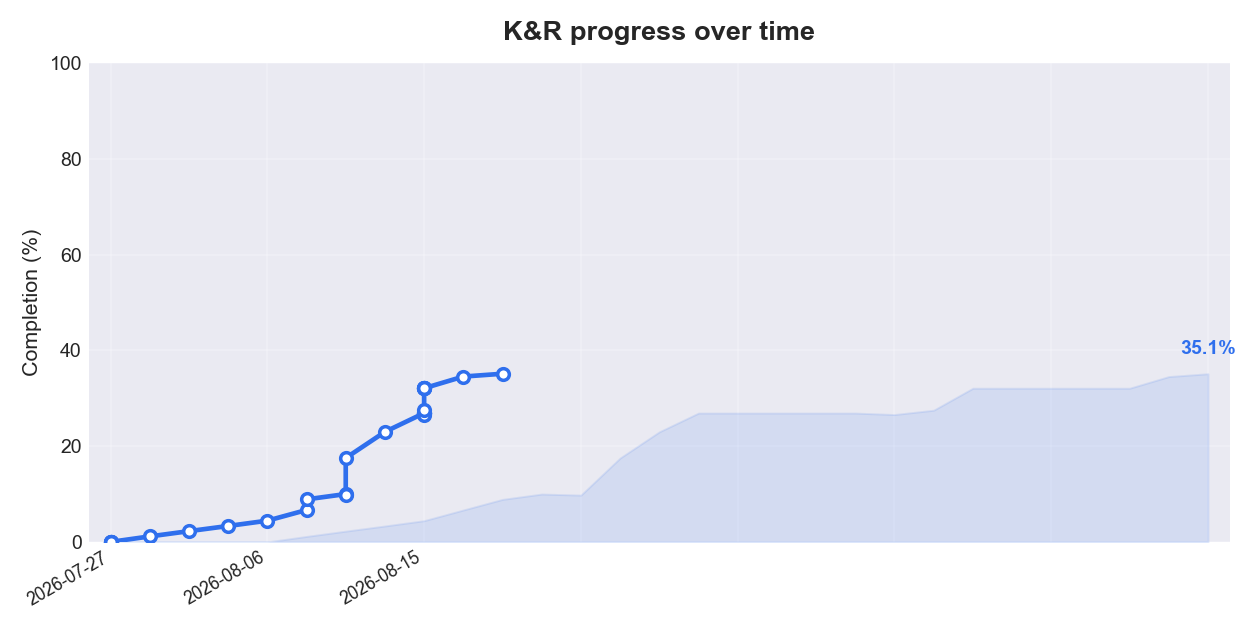
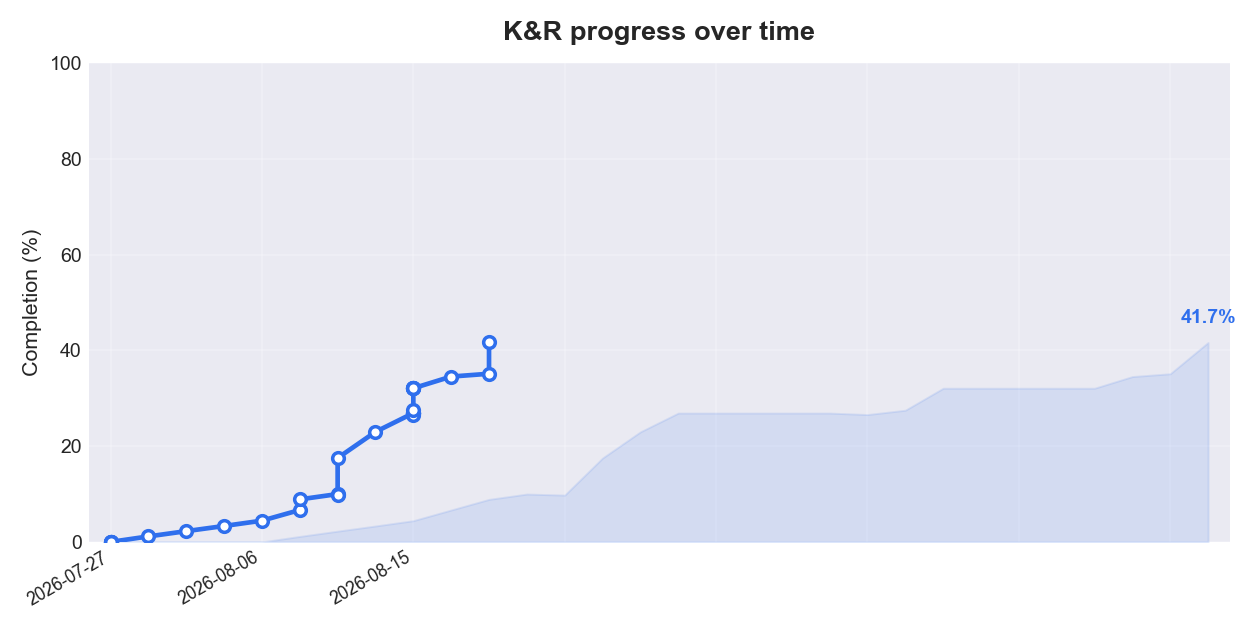
Update tracker and daily log for 2.2-2.10 exercises, add daily-log automation rule to CLAUDE.md

diff --git a/TRACKER.md b/TRACKER.md
@@ -6,13 +6,13 @@ _Last updated: 2026-08-17_
 
 ## Overall
 
-**35.1% complete** `[########----------------]`
+**41.7% complete** `[##########--------------]`
 
 | Metric | Done | Total |
 | --- | --- | --- |
-| Section notes | 13 | 77 |
+| Section notes | 15 | 77 |
 | Chapter summaries | 1 | 8 |
-| Exercises solved | 25 | 26 |
+| Exercises solved | 34 | 35 |
 
 ## Progress over time
 
@@ -23,7 +23,7 @@ _Last updated: 2026-08-17_
 | Chapter | Notes | Summary | Exercises |
 | --- | :---: | :---: | :---: |
 | 1. A Tutorial Introduction | 10 / 10 | yes | 24 / 24 |
-| 2. Types, Operators and Expressions | 3 / 12 | - | 1 / 2 |
+| 2. Types, Operators and Expressions | 5 / 12 | - | 10 / 11 |
 | 3. Control Flow | 0 / 8 | - | 0 / 0 |
 | 4. Functions and Program Structure | 0 / 11 | - | 0 / 0 |
 | 5. Pointers and Arrays | 0 / 12 | - | 0 / 0 |
@@ -55,15 +55,15 @@ _Last updated: 2026-08-17_
 | Section | Title | Notes | Summary | Exercises |
 | :---: | --- | :---: | :---: | :---: |
 | 2.1 | Variable Names | yes | - | 1 / 1 |
-| 2.2 | Data Types and Sizes | yes | - | 0 / 1 |
-| 2.3 | Constants | yes | - | 0 / 0 |
-| 2.4 | Declarations | - | - | 0 / 0 |
-| 2.5 | Arithmetic Operators | - | - | 0 / 0 |
-| 2.6 | Relational and Logical Operators | - | - | 0 / 0 |
-| 2.7 | Type Conversions | - | - | 0 / 0 |
-| 2.8 | Increment and Decrement Operators | - | - | 0 / 0 |
-| 2.9 | Bitwise Operators | - | - | 0 / 0 |
-| 2.10 | Assignment Operators and Expressions | - | - | 0 / 0 |
+| 2.2 | Data Types and Sizes | yes | - | 1 / 2 |
+| 2.3 | Constants | yes | - | 1 / 1 |
+| 2.4 | Declarations | yes | - | 1 / 1 |
+| 2.5 | Arithmetic Operators | yes | - | 1 / 1 |
+| 2.6 | Relational and Logical Operators | no | - | 1 / 1 |
+| 2.7 | Type Conversions | no | - | 1 / 1 |
+| 2.8 | Increment and Decrement Operators | no | - | 1 / 1 |
+| 2.9 | Bitwise Operators | no | - | 1 / 1 |
+| 2.10 | Assignment Operators and Expressions | no | - | 1 / 1 |
 | 2.11 | Conditional Expressions | - | - | 0 / 0 |
 | 2.12 | Precedence and Order of Evaluation | - | - | 0 / 0 |
 

diff --git a/CLAUDE.md b/CLAUDE.md
@@ -247,22 +247,33 @@ in order:
    ```
    python scripts/update_tracker.py
    ```
-2. Stage everything:
+2. Update `DAILY-LOG.md`. Add or update today's entry at the top (newest first,
+   date format `YYYY-MM-DD`), following the existing format: which sections were
+   touched, which exercises were solved, and a short "Notes:" line about anything
+   worth remembering (tricky bugs, files that had to be sorted/renamed, decisions
+   made). If an entry for today already exists, add to it instead of duplicating
+   a second heading for the same date.
+3. Stage everything:
    ```
    git add -A
    ```
-3. Commit with a short, auto-generated message describing what changed, for
+4. Commit with a short, auto-generated message describing what changed, for
    example `Add notes and exercises for 1.3` or `Scaffold folder for 2.4` or
    `Add summary for chapter 1`. Keep the message short.
    ```
    git commit -m "Add notes and exercises for 1.3"
    ```
-4. Push:
+5. Push:
    ```
    git push
    ```
 
 Every change ends with a push. Do not leave work uncommitted.
+
+When a single request produces several separate commits (for example, one commit
+per exercise), run the tracker once and write/update the `DAILY-LOG.md` entry
+once at the end, covering everything done in that request, rather than repeating
+steps 1-2 for every individual commit.
 
 ---
 

diff --git a/DAILY-LOG.md b/DAILY-LOG.md
@@ -13,6 +13,11 @@ and anything worth remembering.
 
 -->
 
+## 2026-08-17
+- Sections: 2.4, 2.5 (real notes from pasted text); 2.6, 2.7, 2.8, 2.9, 2.10 (scaffolded, no book text pasted yet)
+- Exercises solved: 2-2, 2-3, 2-4, 2-5, 2-6, 2-7, 2-8, 2-9, 2-10
+- Notes: nine solution files (`2-2.c` through `2-10.c`) showed up loose in the chapter root instead of the `ex<chapter>-<section><letter>.c` convention. Sorted each into its section folder using the exercise-number-as-section-number rule (`2-6.c` -> section 2.6, etc.), which means some land in a different section than where the exercise conceptually appears in the book (e.g. the bit-manipulation exercises 2-6 through 2-9 are spread across 2.6-2.9 by number, not grouped under Bitwise Operators). Exercises 2-6 through 2-10 are function-only (no `main`), so no `.exe` was built for those, only for 2-3, 2-4, and 2-5. Added a CLAUDE.md rule to update this log automatically after every change going forward.
+
 ## 2026-08-16
 - Sections: 2.1, 2.2, 2.3
 - Exercises solved: none yet (notes and exercise lists written; 2.2 has exercise 2-1 open, 2.1 and 2.3 have none in the section text)
